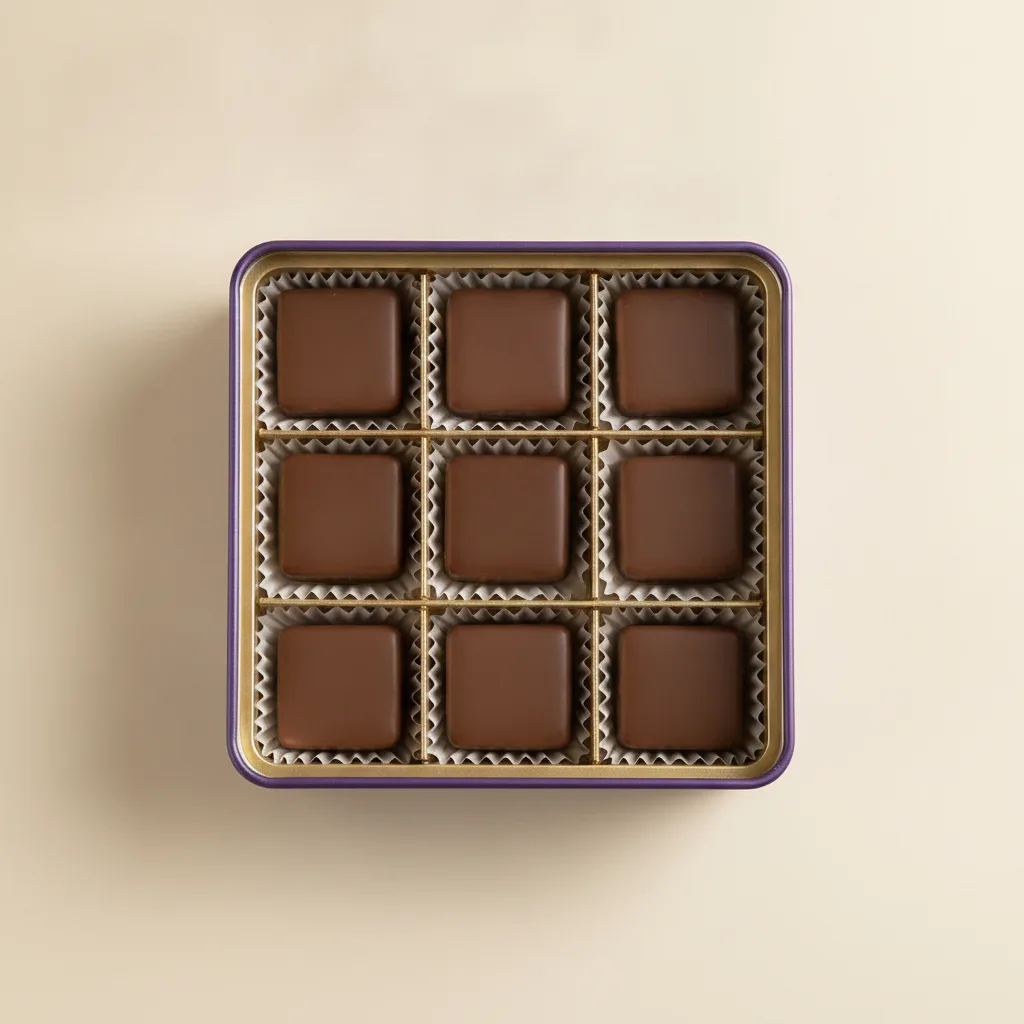
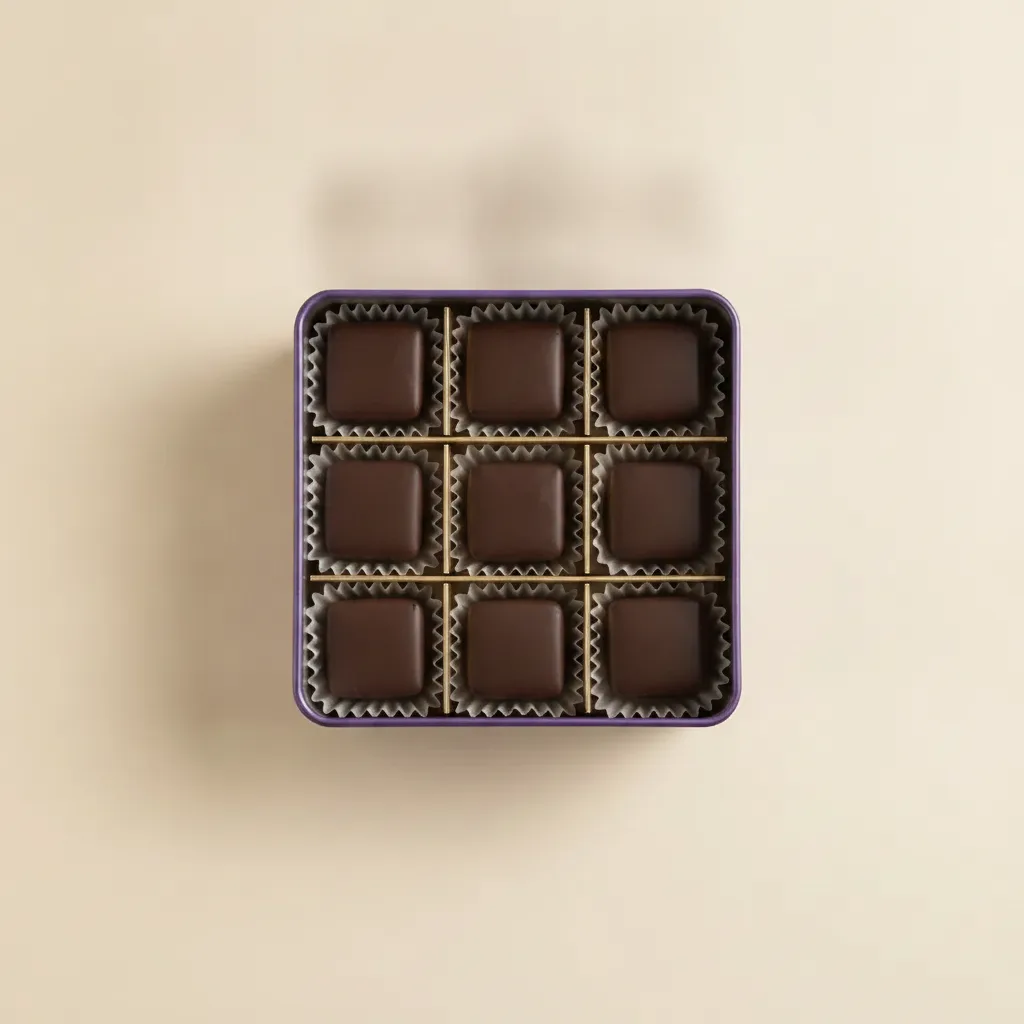
Studio: Box of 9 / Tin of 18 now derived from the real 9+1 photo
Previously box-9.webp was an independently-generated tin that didn't
perfectly match the real 9+1 tin's exact shade/lighting. Regenerated it
by editing the actual production box-9p1.webp (removing its center bar,
replacing with a 9th matching blank bite) so Box of 9 / Tin of 18 use
the exact same real photographed tin as 9+1 -- guaranteed visual
consistency. Cell overlays re-measured for the new framing; wrapped-
hover composite regenerated to match.

diff --git a/src/studio/data/packagingOptions.ts b/src/studio/data/packagingOptions.ts
@@ -74,15 +74,15 @@ export const PACKAGING_OPTIONS: PackagingOption[] = [
     layers: 2,
     photo: '/studio/box-9.webp',
     cellOverlays: [
-      { x: 26.5, y: 28.0, w: 13.5, h: 14.0 },
-      { x: 42.0, y: 28.0, w: 13.5, h: 14.0 },
-      { x: 57.5, y: 28.0, w: 13.5, h: 14.0 },
-      { x: 26.5, y: 44.0, w: 13.5, h: 14.0 },
-      { x: 42.0, y: 44.0, w: 13.5, h: 14.0 },
-      { x: 57.5, y: 44.0, w: 13.5, h: 14.0 },
-      { x: 26.5, y: 60.0, w: 13.5, h: 14.0 },
-      { x: 42.0, y: 60.0, w: 13.5, h: 14.0 },
-      { x: 57.5, y: 60.0, w: 13.5, h: 14.0 },
+      { x: 29.5, y: 29.38, w: 12.5, h: 12.5 },
+      { x: 43.95, y: 29.38, w: 12.5, h: 12.5 },
+      { x: 58.4, y: 29.38, w: 12.5, h: 12.5 },
+      { x: 29.5, y: 43.61, w: 12.5, h: 12.5 },
+      { x: 43.95, y: 43.61, w: 12.5, h: 12.5 },
+      { x: 58.4, y: 43.61, w: 12.5, h: 12.5 },
+      { x: 29.5, y: 57.84, w: 12.5, h: 12.5 },
+      { x: 43.95, y: 57.84, w: 12.5, h: 12.5 },
+      { x: 58.4, y: 57.84, w: 12.5, h: 12.5 },
     ],
     boxDims: '11 × 11 × 5.5 cm',
     compatibleProducts: ['bite'],
@@ -114,15 +114,15 @@ export const PACKAGING_OPTIONS: PackagingOption[] = [
     occasions: ['eid'],
     photo: '/studio/box-9.webp',
     cellOverlays: [
-      { x: 26.5, y: 28.0, w: 13.5, h: 14.0 },
-      { x: 42.0, y: 28.0, w: 13.5, h: 14.0 },
-      { x: 57.5, y: 28.0, w: 13.5, h: 14.0 },
-      { x: 26.5, y: 44.0, w: 13.5, h: 14.0 },
-      { x: 42.0, y: 44.0, w: 13.5, h: 14.0 },
-      { x: 57.5, y: 44.0, w: 13.5, h: 14.0 },
-      { x: 26.5, y: 60.0, w: 13.5, h: 14.0 },
-      { x: 42.0, y: 60.0, w: 13.5, h: 14.0 },
-      { x: 57.5, y: 60.0, w: 13.5, h: 14.0 },
+      { x: 29.5, y: 29.38, w: 12.5, h: 12.5 },
+      { x: 43.95, y: 29.38, w: 12.5, h: 12.5 },
+      { x: 58.4, y: 29.38, w: 12.5, h: 12.5 },
+      { x: 29.5, y: 43.61, w: 12.5, h: 12.5 },
+      { x: 43.95, y: 43.61, w: 12.5, h: 12.5 },
+      { x: 58.4, y: 43.61, w: 12.5, h: 12.5 },
+      { x: 29.5, y: 57.84, w: 12.5, h: 12.5 },
+      { x: 43.95, y: 57.84, w: 12.5, h: 12.5 },
+      { x: 58.4, y: 57.84, w: 12.5, h: 12.5 },
     ],
     boxDims: '11 × 11 × 5.5 cm',
     compatibleProducts: ['bite'],